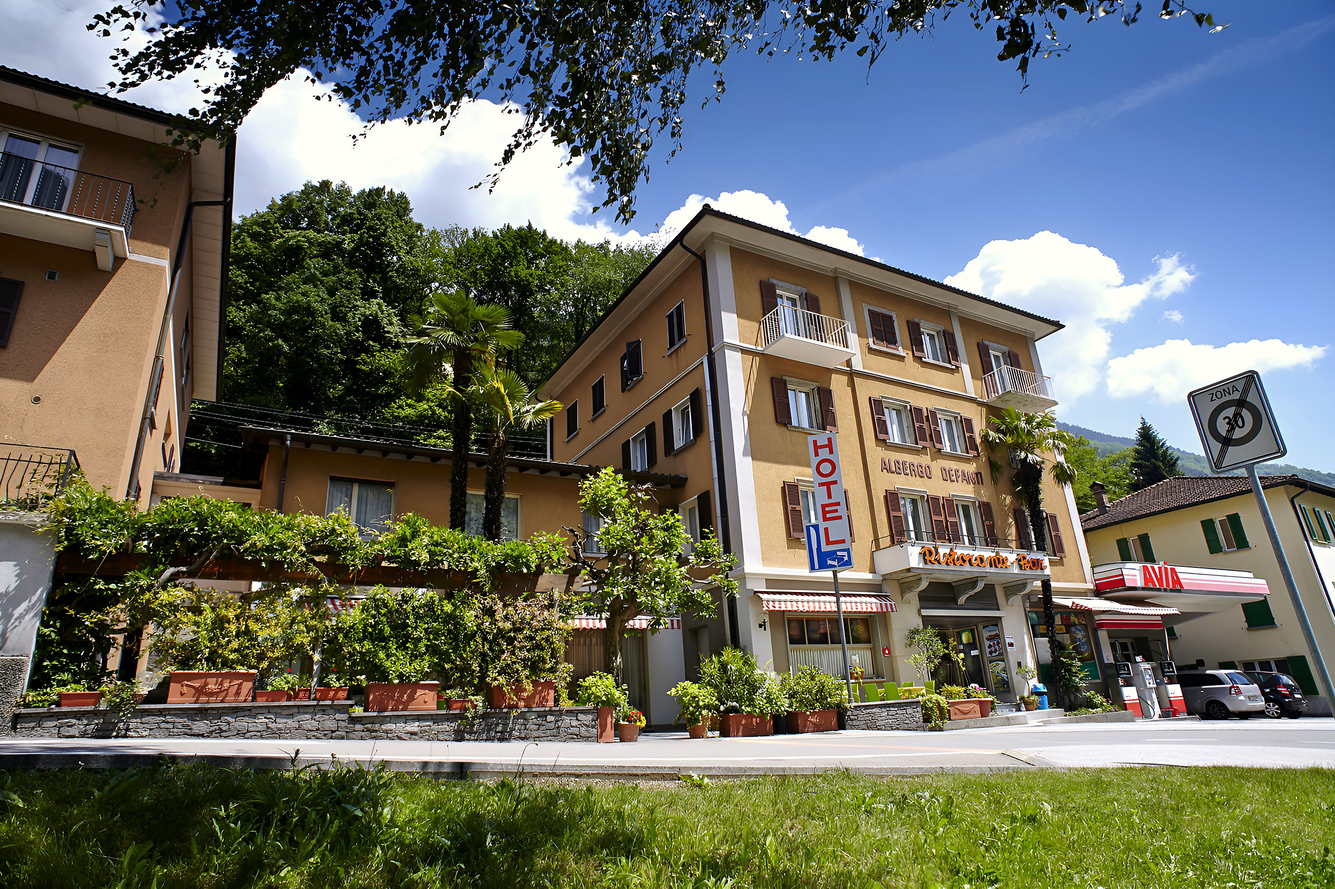
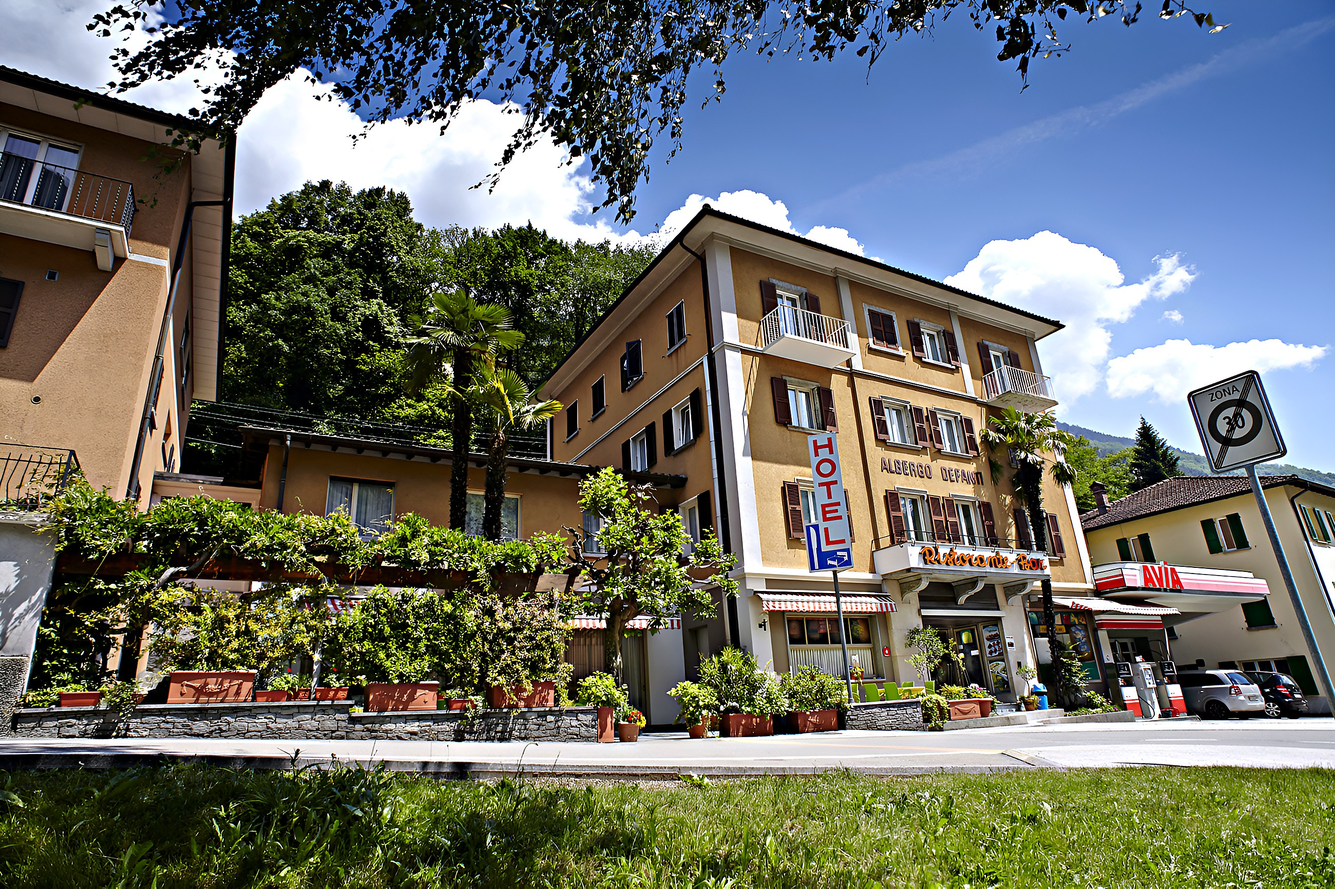
Hero sign clarity, redesign Prezzi block (full-width header + equal-height photo/table + full-width Bus band), Eventi photo = guests at evening event

diff --git a/index.html b/index.html
@@ -383,42 +383,51 @@ tailwind.config = {
 <!-- ======================= CAMERE / PREZZI ======================= -->
 <section id="camere" class="bg-paper py-20 lg:py-28">
   <div class="mx-auto max-w-content px-5 lg:px-8">
-    <div class="grid lg:grid-cols-12 gap-12 lg:gap-16 items-stretch">
-      <div class="lg:col-span-5 reveal flex flex-col">
-        <p class="eyebrow text-gold mb-5">Camere · Prezzi</p>
-        <h2 class="font-display text-3xl lg:text-[2.8rem] leading-[1.08] font-medium text-ink">Il riposo del viaggiatore, dal 1903</h2>
-        <p class="mt-6 text-ink/75 text-lg leading-relaxed">
-          Camere con doccia/W.C., TV satellitare, Wi-Fi gratuito, asciugacapelli, compresa prima
-          colazione a buffet. Ideali per viaggiatori singoli, coppie e famiglie fino a 6 persone.
-        </p>
-        <img src="img/accoglienza.jpg" alt="Dettaglio di benvenuto nelle camere del Defanti" class="mt-8 rounded-2xl shadow-lg w-full object-cover flex-1 min-h-[220px]"/>
+    <!-- Header full width -->
+    <div class="max-w-3xl reveal">
+      <p class="eyebrow text-gold mb-5">Camere · Prezzi</p>
+      <h2 class="font-display text-3xl lg:text-[2.8rem] leading-[1.08] font-medium text-ink">Il riposo del viaggiatore, dal 1903</h2>
+      <p class="mt-6 text-ink/75 text-lg leading-relaxed">
+        Camere con doccia/W.C., TV satellitare, Wi-Fi gratuito, asciugacapelli, compresa prima
+        colazione a buffet. Ideali per viaggiatori singoli, coppie e famiglie fino a 6 persone.
+      </p>
+    </div>
+
+    <!-- Foto + listino: due colonne di pari altezza, allineate sopra e sotto -->
+    <div class="grid lg:grid-cols-2 gap-6 lg:gap-8 items-stretch mt-10 lg:mt-12">
+      <div class="reveal rounded-2xl overflow-hidden shadow-lg min-h-[320px] bg-cream">
+        <img src="img/camera.jpg" alt="Una camera dell'Hotel Defanti" class="w-full h-full object-cover"/>
       </div>
 
-      <div class="lg:col-span-7 reveal flex flex-col" style="transition-delay:.1s">
-        <div class="rounded-2xl bg-white ring-1 ring-line shadow-sm overflow-hidden">
+      <div class="reveal flex" style="transition-delay:.08s">
+        <div class="rounded-2xl bg-white ring-1 ring-line shadow-sm overflow-hidden w-full flex flex-col">
           <div class="px-7 py-5 bg-cream border-b border-line">
             <p class="font-display text-xl text-ink">Listino prezzi <span class="text-ink/50 text-sm font-body">— colazione a buffet inclusa</span></p>
           </div>
           <table class="w-full text-left">
             <tbody class="divide-y divide-line">
-              <tr><td class="px-7 py-4 text-ink/80">Camera singola con doccia/WC</td><td class="px-7 py-4 text-right font-display text-xl text-ink">CHF 80.–</td></tr>
-              <tr><td class="px-7 py-4 text-ink/80">Camera doppia con doccia/WC</td><td class="px-7 py-4 text-right font-display text-xl text-ink">CHF 125.–</td></tr>
-              <tr><td class="px-7 py-4 text-ink/80">Camera a 3 letti con doccia/WC</td><td class="px-7 py-4 text-right font-display text-xl text-ink">CHF 158.–</td></tr>
+              <tr><td class="px-7 py-4 text-ink/80">Camera singola con doccia/WC</td><td class="px-7 py-4 text-right font-display text-xl text-ink whitespace-nowrap">CHF 80.–</td></tr>
+              <tr><td class="px-7 py-4 text-ink/80">Camera doppia con doccia/WC</td><td class="px-7 py-4 text-right font-display text-xl text-ink whitespace-nowrap">CHF 125.–</td></tr>
+              <tr><td class="px-7 py-4 text-ink/80">Camera a 3 letti con doccia/WC</td><td class="px-7 py-4 text-right font-display text-xl text-ink whitespace-nowrap">CHF 158.–</td></tr>
               <tr class="bg-cream/40"><td class="px-7 py-2.5 text-xs uppercase tracking-widest text-gold font-semibold" colspan="2">Camere per famiglie con bambini</td></tr>
-              <tr><td class="px-7 py-4 text-ink/80">Camera a 4 letti con doccia/WC</td><td class="px-7 py-4 text-right font-display text-xl text-ink">CHF 178.–</td></tr>
-              <tr><td class="px-7 py-4 text-ink/80">Camera a 5 letti con doccia/WC</td><td class="px-7 py-4 text-right font-display text-xl text-ink">CHF 198.–</td></tr>
+              <tr><td class="px-7 py-4 text-ink/80">Camera a 4 letti con doccia/WC</td><td class="px-7 py-4 text-right font-display text-xl text-ink whitespace-nowrap">CHF 178.–</td></tr>
+              <tr><td class="px-7 py-4 text-ink/80">Camera a 5 letti con doccia/WC</td><td class="px-7 py-4 text-right font-display text-xl text-ink whitespace-nowrap">CHF 198.–</td></tr>
             </tbody>
           </table>
-          <div class="px-7 py-5 border-t border-line flex flex-wrap items-center justify-between gap-3">
-            <div class="flex flex-wrap gap-x-5 gap-y-1 text-xs text-ink/60">
-              <span>· Doccia / WC</span><span>· TV satellitare</span><span>· Wi-Fi gratuito</span><span>· Asciugacapelli</span><span>· Colazione a buffet</span>
+          <div class="mt-auto px-7 py-5 border-t border-line flex flex-wrap items-center justify-between gap-3">
+            <div class="flex flex-wrap gap-x-4 gap-y-1 text-xs text-ink/60">
+              <span>· Doccia / WC</span><span>· TV satellitare</span><span>· Wi-Fi gratuito</span><span>· Colazione a buffet</span>
             </div>
             <a href="#contatti" class="inline-flex rounded-full bg-azure px-5 py-2.5 text-sm font-bold text-white hover:bg-notte transition">Riservazione</a>
           </div>
         </div>
+      </div>
+    </div>
 
-        <!-- Bus e gruppi -->
-        <div id="bus" class="mt-6 rounded-2xl bg-notte text-cream p-7 lg:p-8">
+    <!-- Bus e gruppi: fascia a tutta larghezza -->
+    <div id="bus" class="reveal mt-6 lg:mt-8 rounded-2xl bg-notte text-cream p-8 lg:p-10">
+      <div class="grid lg:grid-cols-12 gap-6 lg:gap-10 items-center">
+        <div class="lg:col-span-8">
           <p class="eyebrow text-goldlt mb-3">Bus e gruppi</p>
           <h3 class="font-display text-2xl mb-3">Offerte speciali per Gruppi e Comitive</h3>
           <p class="text-cream/80 leading-relaxed">
@@ -427,7 +436,10 @@ tailwind.config = {
             passaggio, anche per il pernottamento di una sola notte con mezza pensione (cena + camera +
             colazione). Il parcheggio gratuito per il bus si trova davanti all'albergo.
           </p>
-          <p class="mt-3 text-cream/70 italic text-sm">Contattateci per avere un'offerta dettagliata.</p>
+        </div>
+        <div class="lg:col-span-4 lg:border-l lg:border-white/15 lg:pl-10">
+          <p class="text-cream/70 italic mb-4">Contattateci per avere un'offerta dettagliata.</p>
+          <a href="#contatti" class="inline-flex rounded-full bg-gold px-6 py-3 text-sm font-bold text-notte hover:bg-goldlt transition">Richiedi un'offerta</a>
         </div>
       </div>
     </div>
